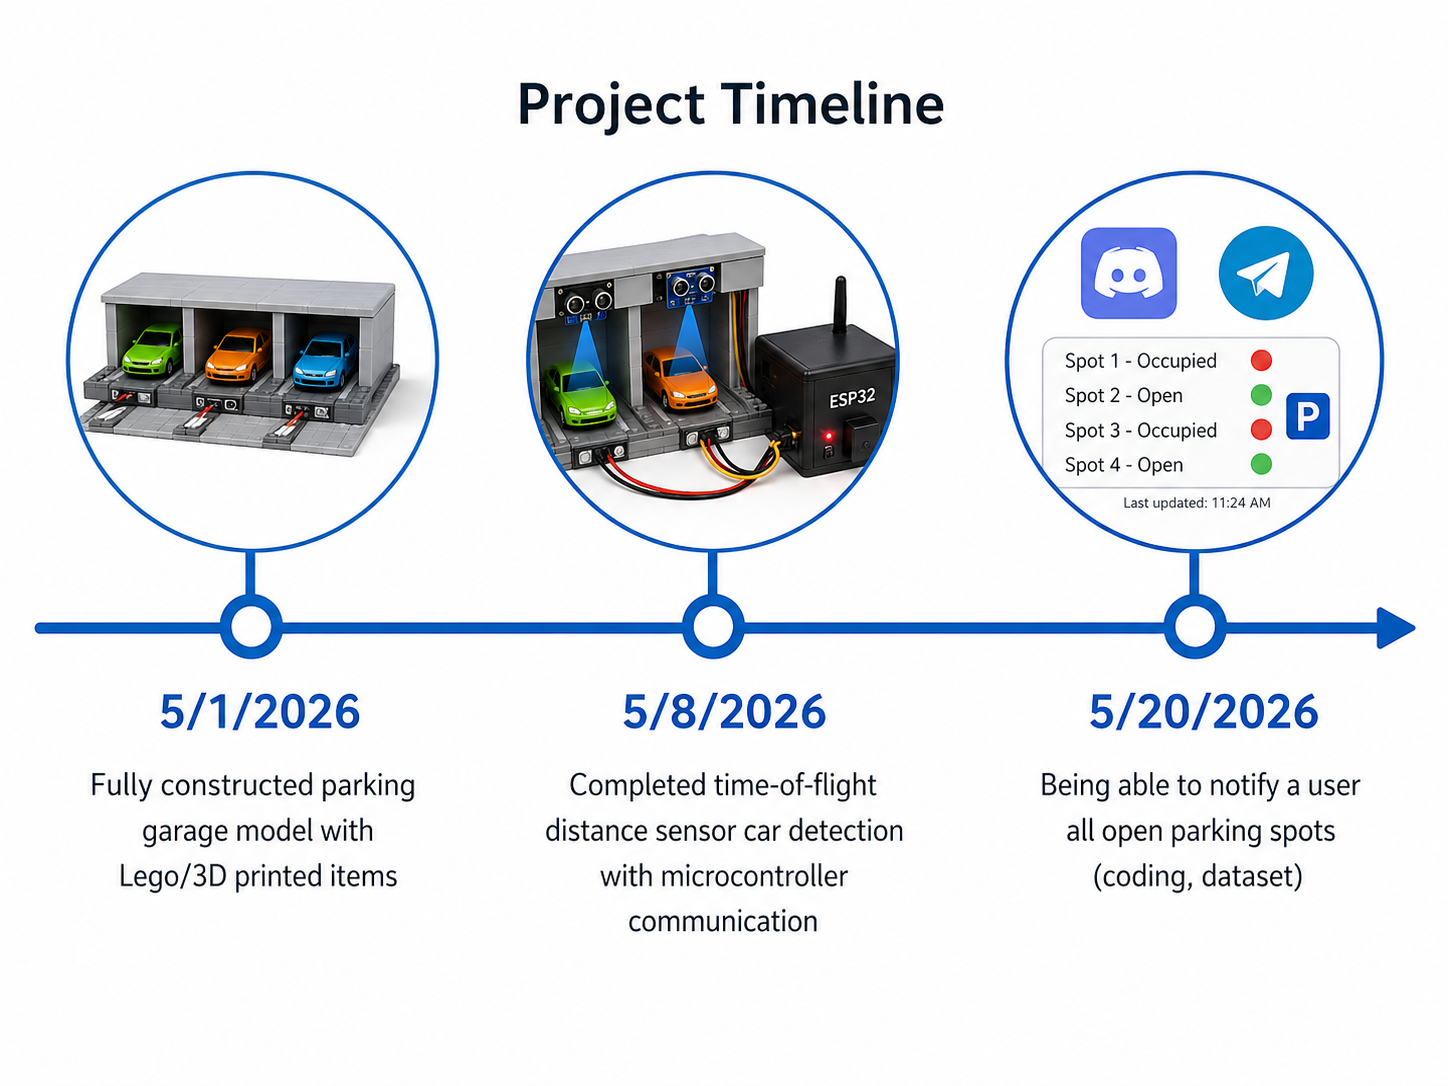
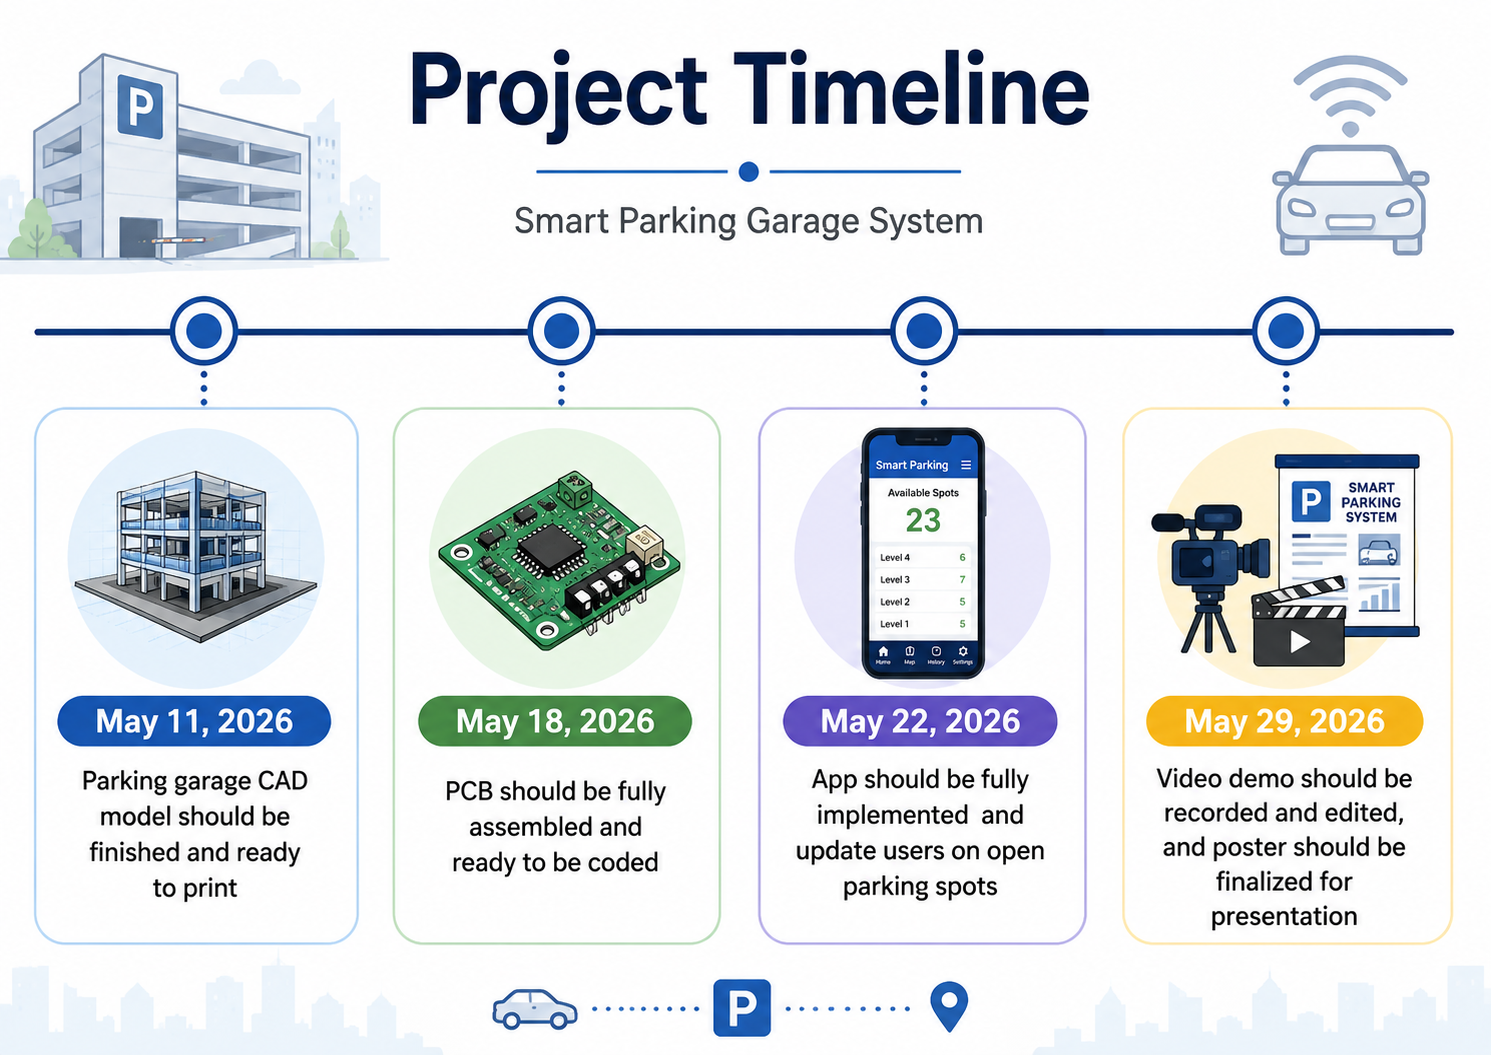
Updated project timeline

diff --git a/app/solution/page.js b/app/solution/page.js
@@ -25,17 +25,21 @@ const components = [
 
 const milestones = [
   {
-    date: "May 1, 2026",
-    item: "Parking garage model is fully constructed and 3D-printed",
+    date: "May 11, 2026",
+    item: "Parking garage CAD model should be finished and ready to print",
   },
   {
-    date: "May 8, 2026",
-    item: "Distance sensor detects a car and sends occupancy data through the microcontroller.",
+    date: "May 18, 2026",
+    item: "PCB should be fully assembled and ready to be coded",
   },
   {
-    date: "May 20, 2026",
-    item: "System notifies a user which parking spots are open through the software interface.",
+    date: "May 22, 2026",
+    item: "App should be fully implemented and update users on open parking spots",
   },
+  {
+    date: "May 29, 2026",
+    item: "Video demo should be recorded and edited, and poster should be finalized for presentation",
+  }
 ];
 
 const pcbFigures = [